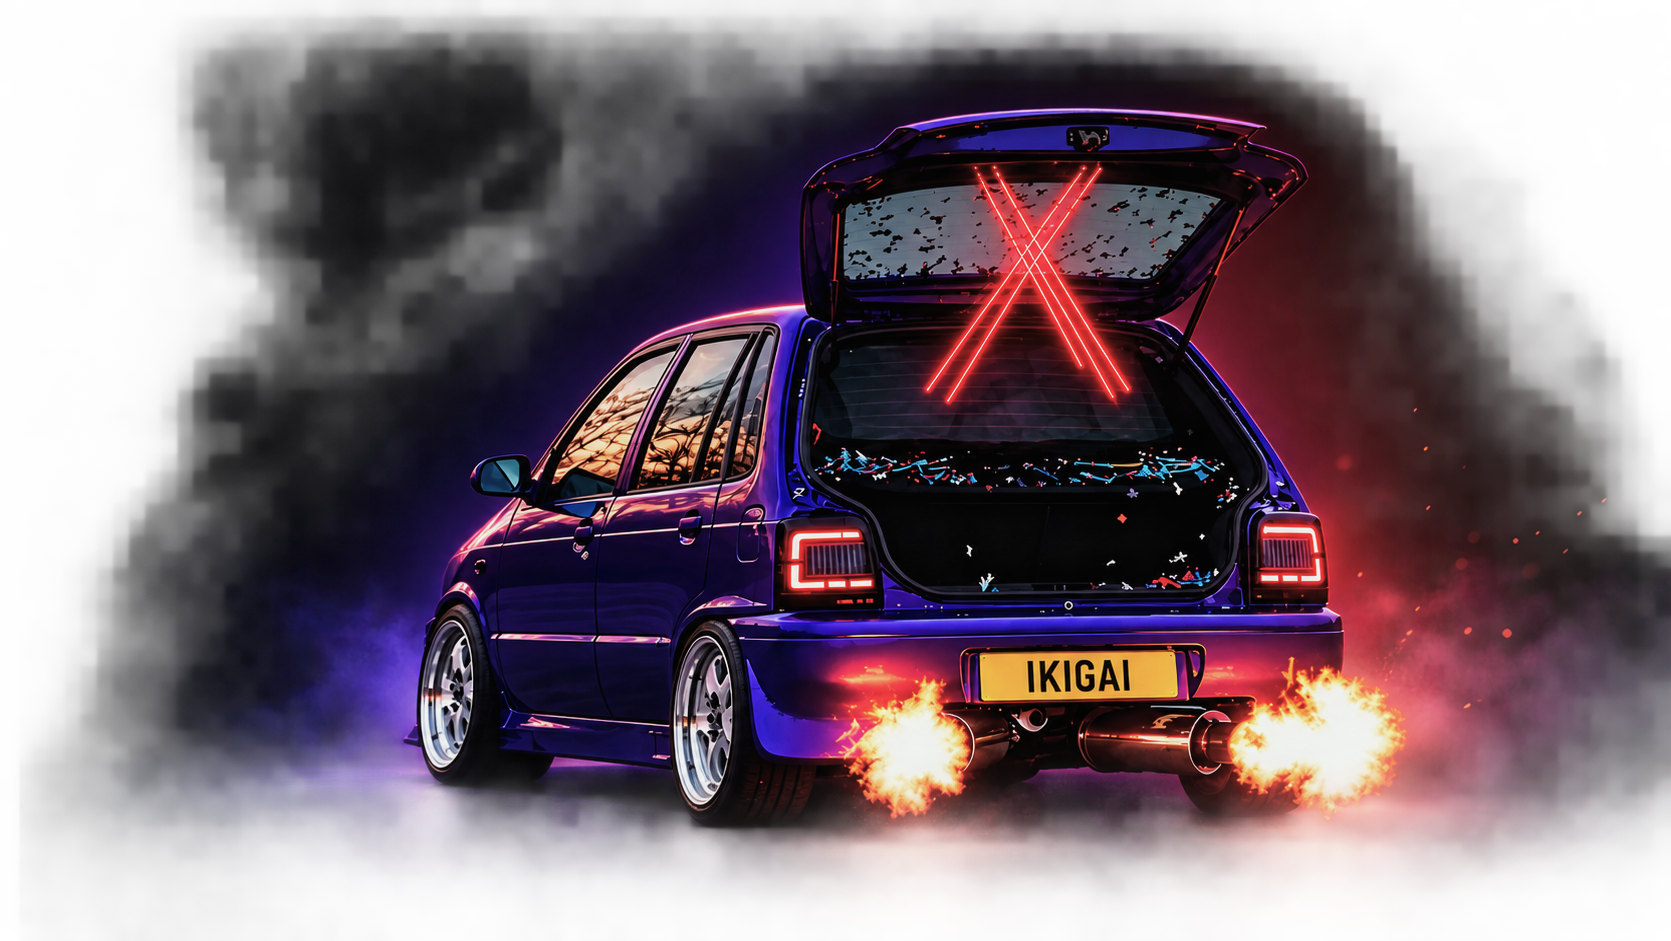
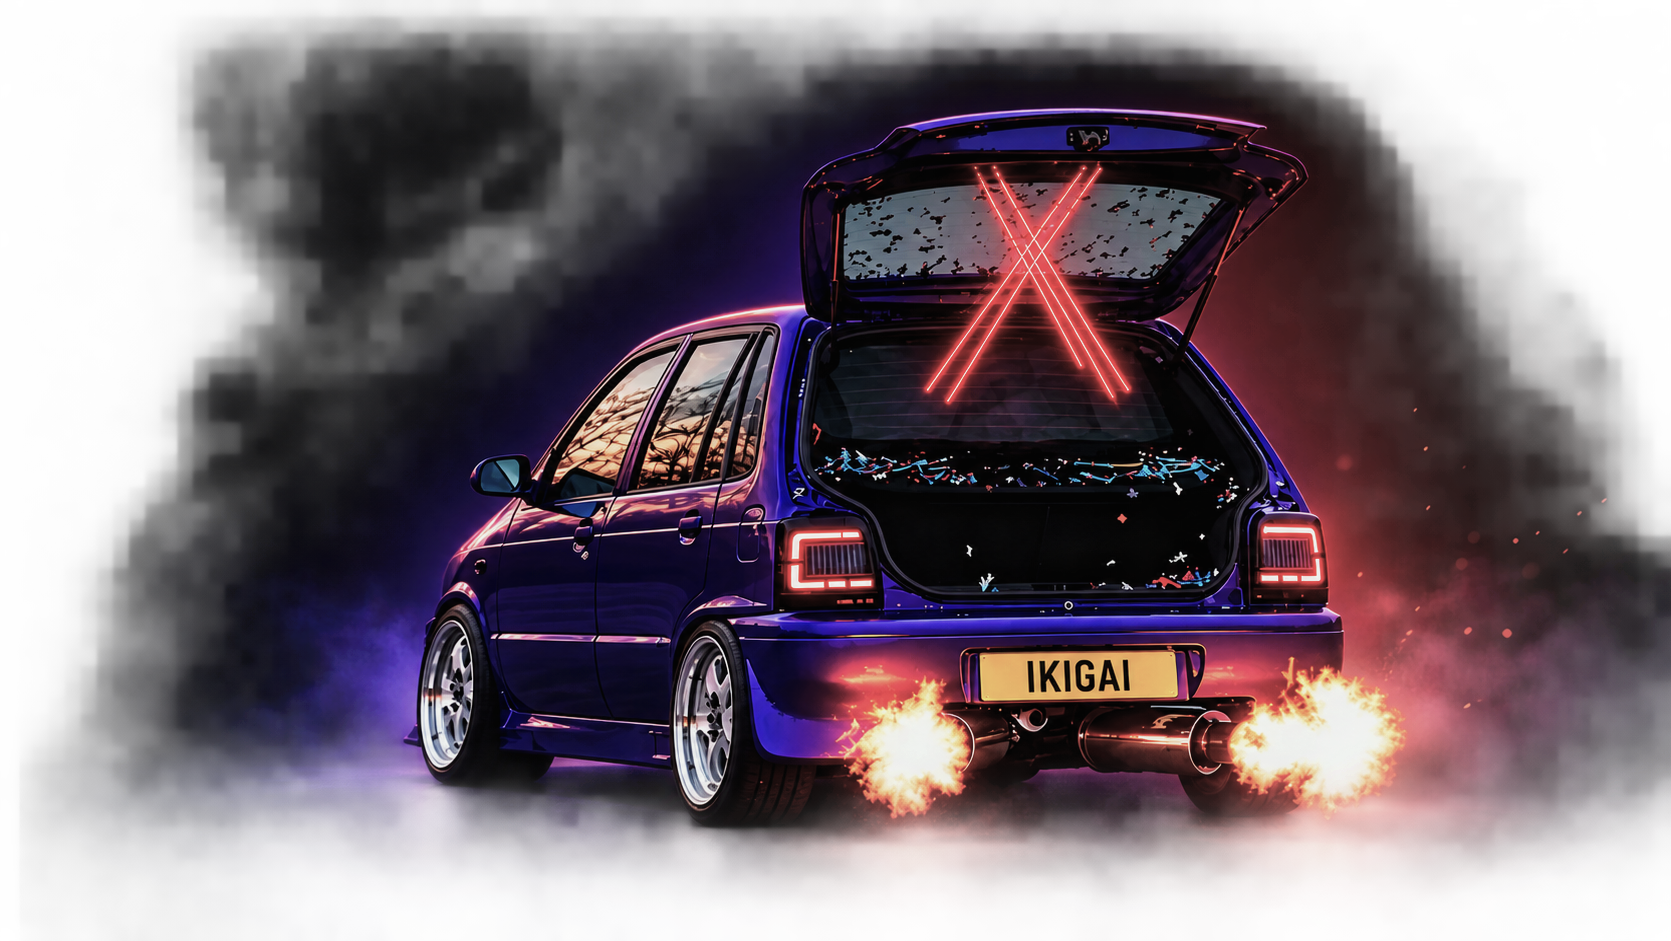
fix(Hero): adjust section height and update car image

diff --git a/frontend/components/Hero.tsx b/frontend/components/Hero.tsx
@@ -21,7 +21,7 @@ const navLinks = [
 
 export default function Hero() {
   return (
-    <section className="relative isolate min-h-screen overflow-hidden bg-black text-white">
+    <section className="relative isolate h-screen overflow-hidden bg-black text-white">
 
       <header className="relative z-20 mx-auto flex max-w-7xl items-center justify-between px-6 py-6 lg:px-12">
         <Link href="/" className="flex items-center gap-2 text-xl font-bold">
@@ -57,7 +57,7 @@ export default function Hero() {
         </div>
       </header>
 
-      <div className="relative mx-auto grid max-w-7xl gap-10 px-6 pb-24 pt-10 lg:min-h-[calc(100vh-88px)] lg:grid-cols-2 lg:items-center lg:px-12">
+      <div className="relative mx-auto grid h-[calc(100vh-88px)] max-w-7xl items-center gap-10 px-6 lg:grid-cols-2 lg:px-12">
 
         <div className="relative z-10 max-w-xl">
           <h1 className="text-5xl font-bold leading-[1.1] tracking-tight sm:text-6xl">
@@ -111,16 +111,15 @@ export default function Hero() {
           </ul>
         </div>
 
-        <div className="relative h-[320px] sm:h-[420px] lg:h-[560px]">
-
+        <div className="relative h-[400px] sm:h-[500px] lg:h-[650px]">
           <div className="absolute inset-0 -z-10 rounded-full bg-white/5 blur-3xl" />
           <Image
-            src="/images/car2.png"
+            src="/images/car3.png"
             alt="Black classic sports car"
             fill
             priority
             sizes="(min-width: 1024px) 50vw, 100vw"
-            className="object-contain object-center lg:scale-125 lg:object-right"
+            className="object-contain object-center scale-110 lg:scale-150 lg:object-right"
           />
         </div>
       </div>
